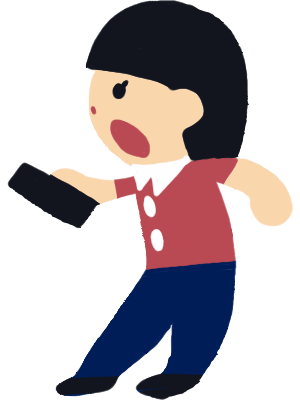
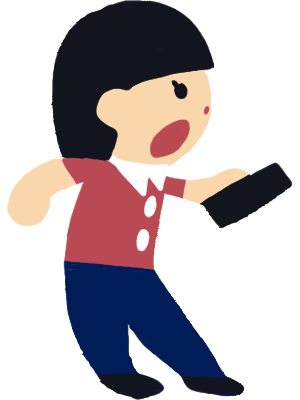
Remote animation

diff --git a/Assets/Scripts/MinigameAdditions/TvMinigame.cs b/Assets/Scripts/MinigameAdditions/TvMinigame.cs
@@ -36,11 +36,15 @@ public class TvMinigame : Minigame
 
     [SerializeField] Interactable interactable;
 
+    private Animator playerAnimator;
+
 
     // Start is called before the first frame update
     void Awake()
     {
         TaskController.RegisterMinigame(this);
+
+        playerAnimator = GameObject.FindGameObjectWithTag("Player").GetComponent<Animator>();
         
         //getcomponentsinChildren also gets the root object, so I need to filter it out
         channels = channelHolder.GetComponentsInChildren<SpriteRenderer>();
@@ -98,6 +102,7 @@ public class TvMinigame : Minigame
         //change the player sprite
         //Debug.Log("Clicked the TV");
         if(interactable.playerIsNear){
+            playerAnimator.Play("remote");
             if(TVStatic.activeSelf){
                 ChangeChannel();
                 TVStatic.SetActive(false);
